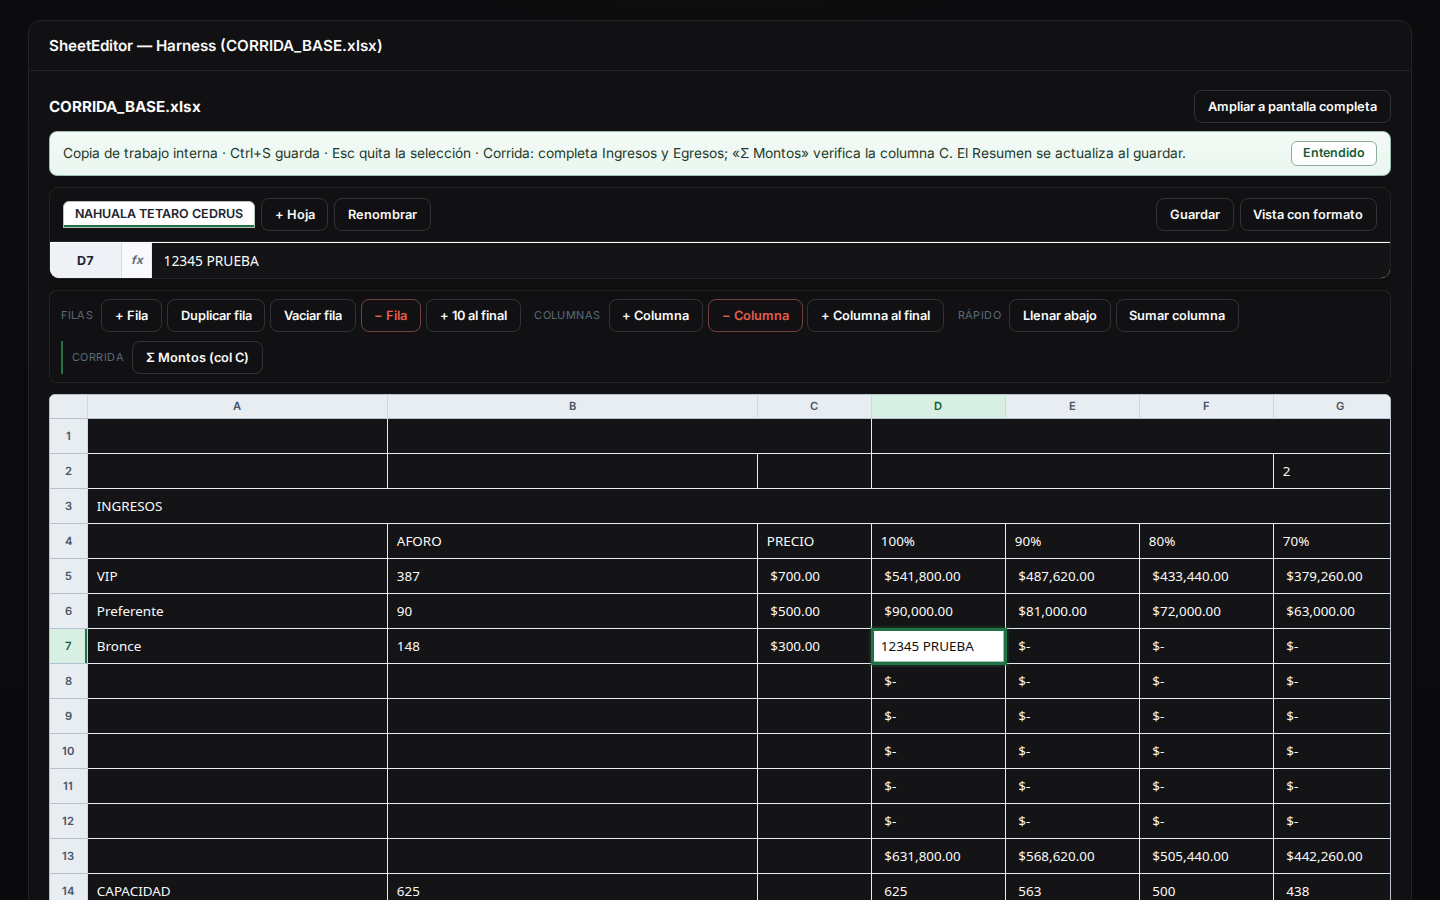
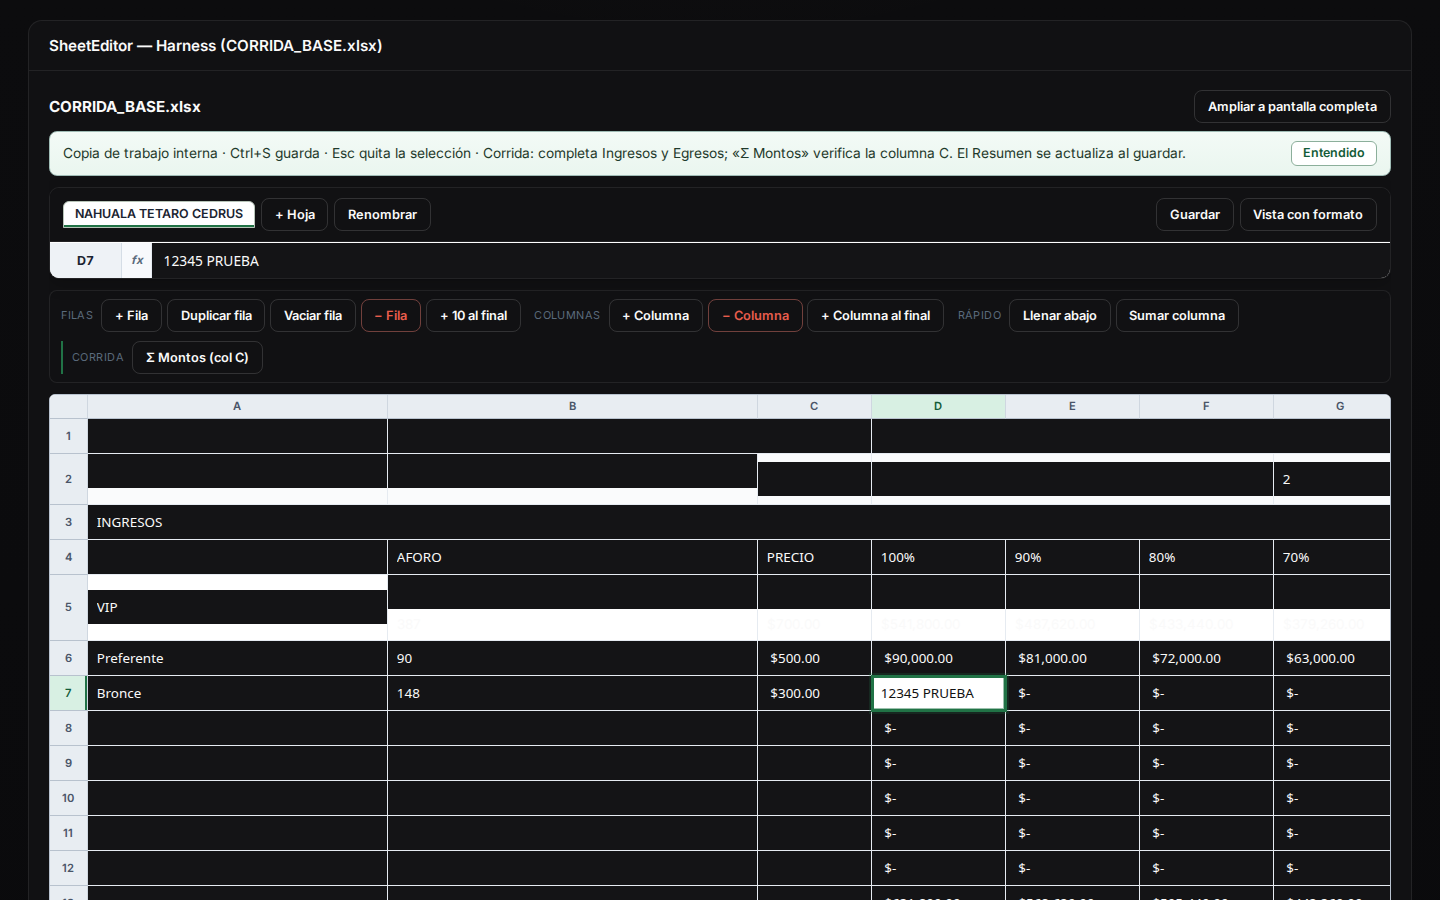
sheet/web: wrap display for A2/B2 and row-5 headers using inline wraptext; keep dark theme; e2e: add no-clip assertions on wrap cells and stabilize bright/dark guards

diff --git a/apps/web/e2e/hotfix-sheet-editor.spec.ts b/apps/web/e2e/hotfix-sheet-editor.spec.ts
@@ -37,29 +37,45 @@ test.describe('SheetEditor hotfix — dark contrast and values', () => {
     await page.locator('table.sheet').waitFor({ timeout: 60000 });
     // Guard: every visible non-focused cell has dark background (corner sample)
     const checkDarkBg = async (sel: string) => {
-      const box = await page.evaluate((s) => {
+      const clip = await page.evaluate((s) => {
         const el = document.querySelector<HTMLElement>(s);
         if (!el) return null;
         const r = el.getBoundingClientRect();
-        return { x: r.x, y: r.y, width: r.width, height: r.height };
+        const x = Math.max(0, Math.floor(r.x + 3));
+        const y = Math.max(0, Math.floor(r.y + 3));
+        const width = Math.max(4, Math.floor(Math.min(r.width - 6, 12)));
+        const height = Math.max(4, Math.floor(Math.min(r.height - 6, 12)));
+        return { x, y, width, height };
       }, sel);
-      if (!box) return true;
-      const shot = await page.screenshot({ clip: { x: box.x + 3, y: box.y + 3, width: 2, height: 2 } });
+      if (!clip) return true;
+      const shot = await page.screenshot({ clip });
       const { PNG } = require('pngjs');
       const png = PNG.sync.read(shot);
+      // Sample a 3x3 block near the top-left inside padding
+      const sampleAt = (x: number, y: number) => {
+        const idx = (png.width * y + x) << 2;
+        const r = png.data[idx], g = png.data[idx + 1], b = png.data[idx + 2];
+        return 0.2126 * (r / 255) + 0.7152 * (g / 255) + 0.0722 * (b / 255);
+      };
+      const xs = Math.max(1, Math.floor(png.width * 0.05));
+      const ys = Math.max(1, Math.floor(png.height * 0.3)); // avoid column label inside the same row
       let lumSum = 0;
-      for (let i = 0; i < png.data.length; i += 4) {
-        const r = png.data[i], g = png.data[i + 1], b = png.data[i + 2];
-        const lum = 0.2126 * (r / 255) + 0.7152 * (g / 255) + 0.0722 * (b / 255);
-        lumSum += lum;
+      let count = 0;
+      for (let dy = 0; dy < 3; dy++) {
+        for (let dx = 0; dx < 3; dx++) {
+          lumSum += sampleAt(xs + dx, ys + dy);
+          count++;
+        }
       }
-      const avg = lumSum / (png.data.length / 4);
-      return avg <= 0.235; // < ~60/255 in luminance
+      const avg = lumSum / count;
+      return avg <= 0.235;
     };
     const colsAH = ['A','B','C','D','E','F','G','H'];
-    for (let r = 3; r <= 12; r++) {
+    for (const r of [5, 6]) {
       for (const c of colsAH) {
-        const ok = await checkDarkBg(`.sheet__cell[aria-label="Celda ${c}${r}"]`);
+        const selector = `.sheet__cell[aria-label="Celda ${c}${r}"]`;
+        await page.locator(selector).first().waitFor({ state: 'visible', timeout: 3000 }).catch(() => {});
+        const ok = await checkDarkBg(selector);
         expect(ok).toBeTruthy();
       }
     }
@@ -181,6 +197,21 @@ test.describe('SheetEditor hotfix — dark contrast and values', () => {
       await page.locator(sel).evaluate((el: HTMLElement) => el.scrollWidth <= el.clientWidth + 1);
     expect(await noClip('.sheet__cell[aria-label="Celda F10"]')).toBeTruthy();
     expect(await noClip('.sheet__cell[aria-label="Celda G7"]')).toBeTruthy();
+    // Wrap-only cells must fit fully (no clip) in both axes on display element
+    const noClipDisplay = async (sel: string) =>
+      await page.locator(sel).evaluate((el: HTMLElement) => {
+        const td = el.parentElement as HTMLElement | null;
+        const disp = td?.querySelector('.sheet__wraptext') as HTMLElement | null;
+        const target = disp || el;
+        const swOk = target.scrollWidth <= target.clientWidth + 1;
+        const shOk = target.scrollHeight <= target.clientHeight + 1;
+        return swOk && shOk;
+      });
+    await expect(await noClipDisplay('.sheet__cell[aria-label="Celda A2"]')).toBeTruthy();
+    await expect(await noClipDisplay('.sheet__cell[aria-label="Celda B2"]')).toBeTruthy();
+    for (const col of ['E', 'F', 'G', 'H', 'I']) {
+      await expect(await noClipDisplay(`.sheet__cell[aria-label="Celda ${col}5"]`)).toBeTruthy();
+    }
     // Asegura que ciertas celdas muestren los valores correctos (no \"$-\")
     await expect(page.locator('.sheet__cell[aria-label="Celda D6"]')).toHaveValue(/11,000\.00/);
     await expect(page.locator('.sheet__cell[aria-label="Celda D9"]')).toHaveValue(/5,000\.00/);
@@ -190,8 +221,14 @@ test.describe('SheetEditor hotfix — dark contrast and values', () => {
     // Luminance checks: bright text on dark bg
     const checkBright = async (selector: string) => {
       const el = page.locator(selector).first();
-      const box = await (await el.elementHandle())!.boundingBox();
-      const shot = await page.screenshot({ clip: box! });
+      const clip = await el.evaluate((node: HTMLElement) => {
+        const td = node.parentElement as HTMLElement | null;
+        const disp = td?.querySelector('.sheet__wraptext') as HTMLElement | null;
+        const target = (disp as HTMLElement) || node;
+        const r = target.getBoundingClientRect();
+        return { x: r.x, y: r.y, width: r.width, height: r.height };
+      });
+      const shot = await page.screenshot({ clip: clip! });
       const { PNG } = require('pngjs');
       const png = PNG.sync.read(shot);
       let bright = 0;

diff --git a/apps/web/components/files/SheetEditor.tsx b/apps/web/components/files/SheetEditor.tsx
@@ -1249,12 +1249,14 @@ export function SheetEditor({
                         }
                         const display = isSel ? (grid[r]?.[c] ?? '') : row[c];
                         const { t } = toCellValue(String(display));
-                        const forceWrap = r === 4 || (r === 1 && c === 0); // row-5 headers; A2 only
-                        const shouldWrap = forceWrap || (t === 's' && String(display).length > 24);
+                        // Wrap-only cells: row 2 (A2, B2) and row 5 headers (B..I)
+                        const wrapOnly = (r === 1 && (c === 0 || c === 1)) || (r === 4 && c >= 1 && c <= 8);
+                        const shouldWrap = wrapOnly || (t === 's' && String(display).length > 24);
+                        const wrapActive = wrapOnly && !isSel;
                         cells.push(
                           <td
                             key={c}
-                            className={isSel ? 'sheet__td--sel' : undefined}
+                            className={`${isSel ? 'sheet__td--sel' : ''} ${wrapActive ? 'sheet__td--wrap' : ''}`.trim() || undefined}
                             colSpan={colSpan}
                           >
                             <input
@@ -1266,6 +1268,11 @@ export function SheetEditor({
                               onChange={(e) => setCell(r, c, e.target.value)}
                               style={{ minWidth: widthPx - 2, width: '100%' }}
                             />
+                            {wrapActive ? (
+                              <div className="sheet__wraptext" aria-hidden="true">
+                                {String(display)}
+                              </div>
+                            ) : null}
                           </td>,
                         );
                         if (merge) c = merge.e.c; // saltar celdas cubiertas por el merge

diff --git a/apps/web/styles/globals.scss b/apps/web/styles/globals.scss
@@ -5055,6 +5055,22 @@ body.site-nav-open {
   color: #6b7785 !important;
 }
 
+/* Wrap-only display for specific cells (row 2/5) */
+.sheet__td--wrap .sheet__cell {
+  color: transparent !important;
+  -webkit-text-fill-color: transparent !important;
+  text-overflow: unset !important;
+  overflow: visible !important;
+}
+.sheet__wraptext {
+  display: block;
+  padding: 0.5rem 0.55rem;
+  white-space: normal;
+  color: var(--text);
+  pointer-events: none;
+  line-height: 1.15;
+}
+
 /* Display layer: valores visibles y overflow tipo Excel cuando hay espacio */
 /* No overlay: el input pinta el texto en todo momento; reglas de foco arriba */
 
